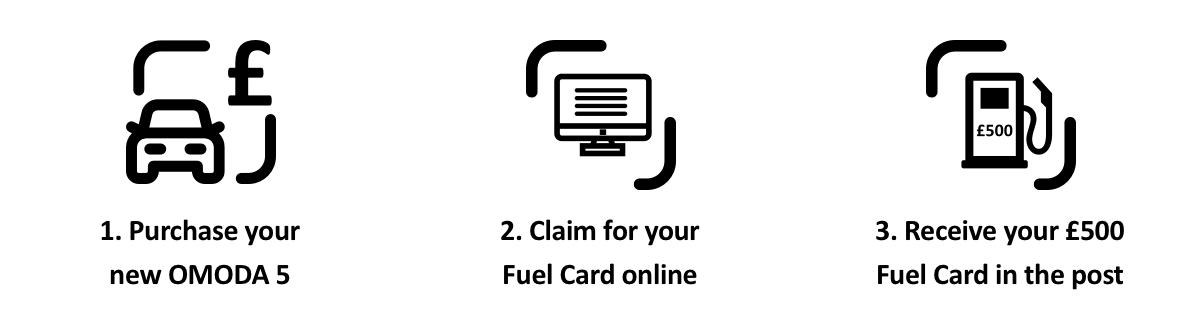
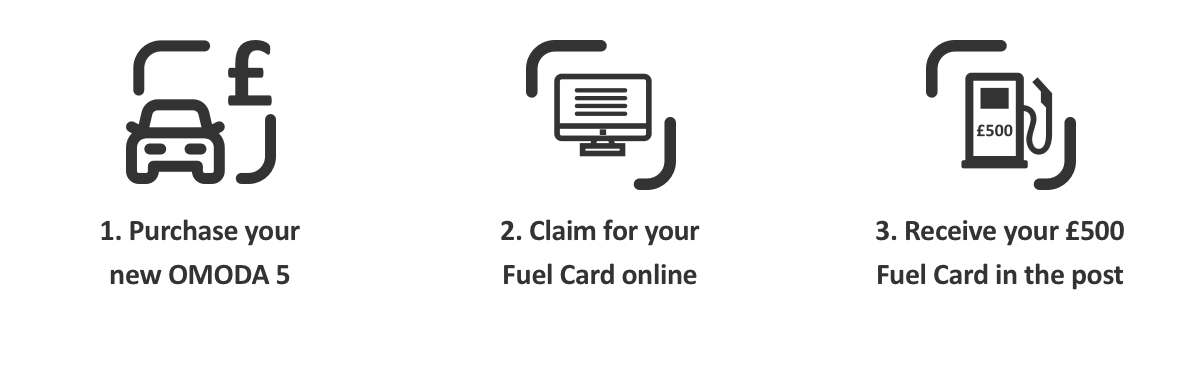
commit

diff --git a/complete/omoda/0% Offer email/index.html b/complete/omoda/0% Offer email/index.html
@@ -692,14 +692,14 @@
                         </p>
                         
                         
-                        <table style="width: 100%; border-collapse: collapse; font-family: Calibri, Helvetica, Arial, sans-serif; font-size:16px; color: #000;">
+                        <table style="width: 100%; border-collapse: collapse; font-family: Calibri, Helvetica, Arial, sans-serif; font-size:16px;">
                           <thead>
                             <tr style="background-color: #4F5457; color: #fff;">
                               <td colspan="2" style="padding: 10px; text-align: left;font-weight: bold">REPRESENTATIVE EXAMPLE: OMODA 5 - Petrol Comfort 1.6t + 7DT.* (Personal Contract Plan)</td>
                             </tr>
                           </thead>
                         </table>
-                        <table style="width: 100%; border-collapse: collapse; font-family: Calibri, Helvetica, Arial, sans-serif; font-size:16px; color: #000;">
+                        <table style="width: 100%; border-collapse: collapse; font-family: Calibri, Helvetica, Arial, sans-serif; font-size:16px; color: #000000">
                           <tbody>
                             <tr style="background-color: #EAEBEB;">
                               <td width="66%" style="padding: 10px; border-right: 1px solid #fff;width:60%">OTR Cash Price</td>
@@ -869,7 +869,7 @@
             <tr>
               <td style="width:600px">
                 <![endif]-->
-                <table role="presentation" style="max-width: 600px;" width="100%" cellspacing="0" cellpadding="0" border="0" bgcolor="#303639" >
+                <table role="presentation" style="max-width: 600px;" width="100%" cellspacing="0" cellpadding="0" border="0" bgcolor="#ffffff" >
                   <tbody>
                     <tr>
                       <td>
